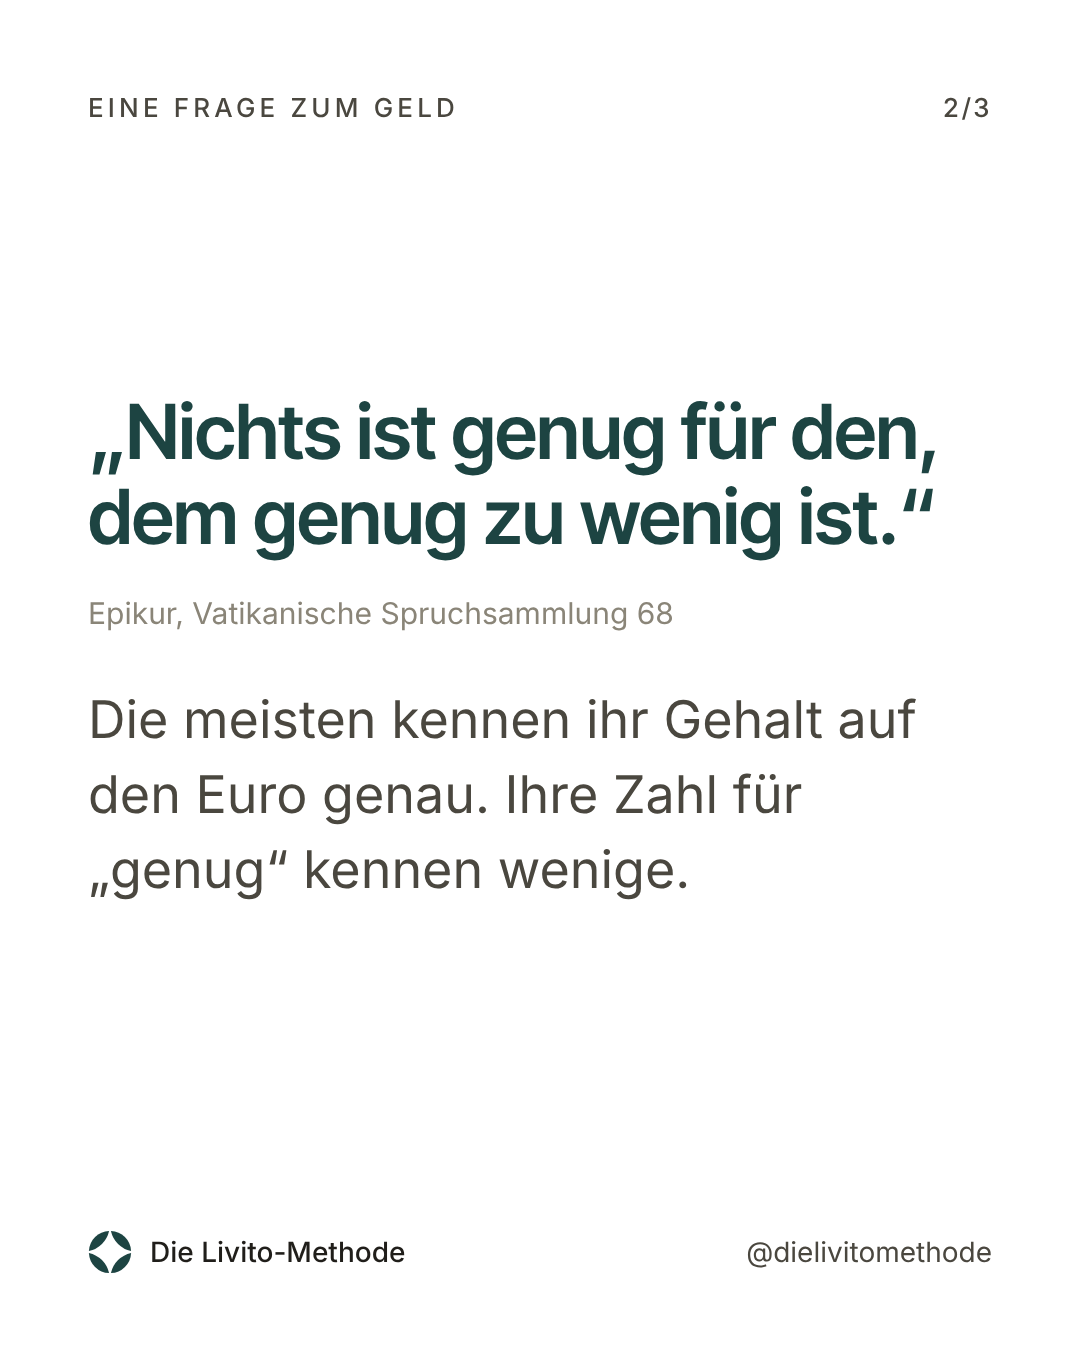
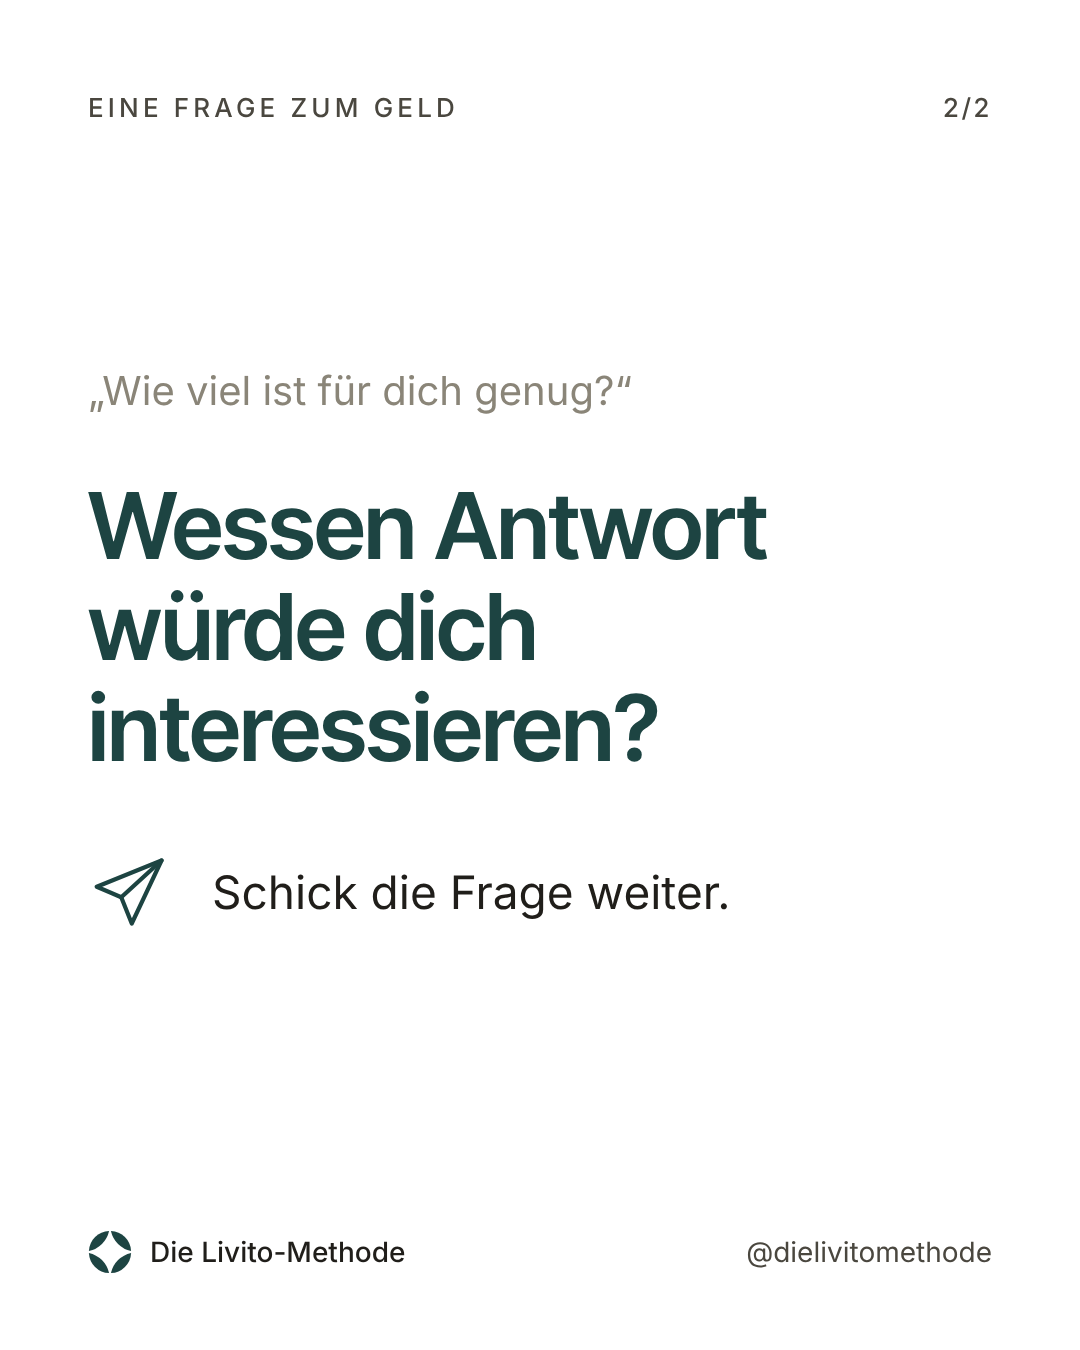
Serie Eine Frage zum Geld: zwei Folien (Frage, Weiterleiten)
Claude-Session: https://claude.ai/code/session_01CRzVGdoBZCufKEeWQ2iiG6

Changed region(s): [[0.0611, 0.28, 0.8861, 0.6844]]

diff --git a/system/slides.html b/system/slides.html
@@ -57,6 +57,11 @@
 .ask{margin:72px 0 0;display:flex;flex-direction:column;gap:48px}
 .ask div{display:flex;align-items:center;gap:40px;font-size:46px;line-height:1.35;color:#fff}
 .ask svg{width:84px;height:84px;flex:none}
+.papier .statement{color:var(--petrol)}
+.papier .ask div{color:var(--anthrazit)}
+.papier .ask svg{color:var(--petrol)}
+.petrol .ask svg{color:var(--nebel)}
+.nochmal{font-size:40px;line-height:1.4;color:var(--stein);margin:0 0 56px}
 </style>
 </head>
 <body>
@@ -70,12 +75,11 @@ const band = () => { const R = 86, step = 2.4*R, n = 8, s = (2*R)/96, y = 95 - 5
 const kopf = (label, i, n) => `<div class="top"><span>${label}</span><span class="nr">${i}/${n}</span></div>`;
 const foot = (dark, hint) => `<div class="foot"><span class="brand">${signet(dark?'#fff':'#1D4442')}<span>Die Livito-Methode</span></span><span class="hint">${hint||'@dielivitomethode'}</span></div>`;
 
-const ICON = { antwort:'<svg viewBox="0 0 48 48" fill="none" stroke="#D6DED8" stroke-width="2.4" stroke-linecap="round" stroke-linejoin="round"><path d="M24 6C13.5 6 6 13.2 6 22.6c0 4.6 1.9 8.7 5.1 11.7L9.4 42l8.4-3.2c2 .6 4 .9 6.2.9 10.5 0 18-7.3 18-17.1S34.5 6 24 6z"/></svg>',
-  senden:'<svg viewBox="0 0 48 48" fill="none" stroke="#D6DED8" stroke-width="2.4" stroke-linecap="round" stroke-linejoin="round"><path d="M42 6L5 21l14 6 6 15z"/><path d="M19 27L42 6"/></svg>' };
-const frage = (q, cls, zitat, quelle, text) => ({ label:'Eine Frage zum Geld', n:3, slides:[
-  s=>`${kopf(s.label,1,s.n)}<h1 class="title ${cls}">${q}</h1><div class="grow"></div>${band()}${foot(true,'Wischen →')}`,
-  s=>`${kopf(s.label,2,s.n)}<div class="mid"><p class="zitat">${zitat}</p><p class="quelle">${quelle}</p>${text.map(t=>`<p class="body">${t}</p>`).join('')}</div>${foot(false)}`,
-  s=>`${kopf(s.label,3,s.n)}<div class="mid"><p class="statement">Deine Antwort?</p><div class="ask"><div>${ICON.antwort}<span>Schreib sie in die Kommentare.</span></div><div>${ICON.senden}<span>Oder stell die Frage jemandem, dessen Antwort dich interessiert.</span></div></div></div>${foot(true)}`,
+const ICON = { antwort:'<svg viewBox="0 0 48 48" fill="none" stroke="currentColor" stroke-width="2.4" stroke-linecap="round" stroke-linejoin="round"><path d="M24 6C13.5 6 6 13.2 6 22.6c0 4.6 1.9 8.7 5.1 11.7L9.4 42l8.4-3.2c2 .6 4 .9 6.2.9 10.5 0 18-7.3 18-17.1S34.5 6 24 6z"/></svg>',
+  senden:'<svg viewBox="0 0 48 48" fill="none" stroke="currentColor" stroke-width="2.4" stroke-linecap="round" stroke-linejoin="round"><path d="M42 6L5 21l14 6 6 15z"/><path d="M19 27L42 6"/></svg>' };
+const frage = (q, cls) => ({ label:'Eine Frage zum Geld', n:2, slides:[
+  s=>`${kopf(s.label,1,s.n)}<h1 class="title ${cls}">${q}</h1><div class="grow"></div>${band()}${foot(true,'Deine Antwort ↓')}`,
+  s=>`${kopf(s.label,2,s.n)}<div class="mid"><p class="nochmal">„${q}“</p><p class="statement">Wessen Antwort würde dich interessieren?</p><div class="ask"><div>${ICON.senden}<span>Schick die Frage weiter.</span></div></div></div>${foot(false)}`,
 ]});
 const C = {
  notgroschen: { label:'Schritt für Schritt', n:7, slides:[
@@ -129,10 +133,10 @@ const C = {
   s=>`${kopf(s.label,3,s.n)}<div class="mid"><p class="statement">Erst das eine. Dann das nächste.</p><p class="sub">In vier Schritten zur finanziellen Gelassenheit.</p></div>${foot(true)}`,
  ]},
 };
-C.frage1 = frage('Wie viel ist für dich genug?','', '„Nichts ist genug für den, dem genug zu wenig ist.“', 'Epikur, Vatikanische Spruchsammlung 68', ['Die meisten kennen ihr Gehalt auf den Euro genau. Ihre Zahl für „genug“ kennen wenige.']);
-C.frage2 = frage('Morgen kommt eine Rechnung über 1.000&nbsp;Euro. Woher nimmst du das Geld?','m', 'Aus einer Krise wird ein Ärgernis, das man selbst lösen kann, ohne jemanden fragen zu müssen.', 'Aus dem Buch „Die Livito-Methode“', ['Dafür ist der Notgroschen da: 1.500&nbsp;Euro auf einem eigenen Tagesgeldkonto.']);
-C.frage3 = frage('Wer hat bei dir das Sagen: du oder dein Geld?','', '„Beim Weisen dient der Reichtum, beim Toren herrscht er.“', 'Seneca, Vom glücklichen Leben 26,1', ['Geld herrscht, solange es dich nachts beschäftigt. Es dient, sobald jeder Teil eine Aufgabe hat.']);
-const dark = { notgroschen:[0,6], schneeball:[0,5], satz:[0,2], methode:[0,5], schritte:[0,5], fuerwen:[0,4], satz2:[0,2], frage1:[0,2], frage2:[0,2], frage3:[0,2] };
+C.frage1 = frage('Wie viel ist für dich genug?','');
+C.frage2 = frage('Morgen kommt eine Rechnung über 1.000&nbsp;Euro. Woher nimmst du das Geld?','m');
+C.frage3 = frage('Wer hat bei dir das Sagen: du oder dein Geld?','');
+const dark = { notgroschen:[0,6], schneeball:[0,5], satz:[0,2], methode:[0,5], schritte:[0,5], fuerwen:[0,4], satz2:[0,2], frage1:[0], frage2:[0], frage3:[0] };
 for (const key of Object.keys(C)) { const s = C[key];
   s.slides.forEach((fn,i)=>{ const d = document.createElement('div'); d.className = 'slide ' + (dark[key].includes(i)?'petrol':'papier'); d.id = `${key}-${i+1}`; d.innerHTML = fn(s); document.body.appendChild(d); });
 }
